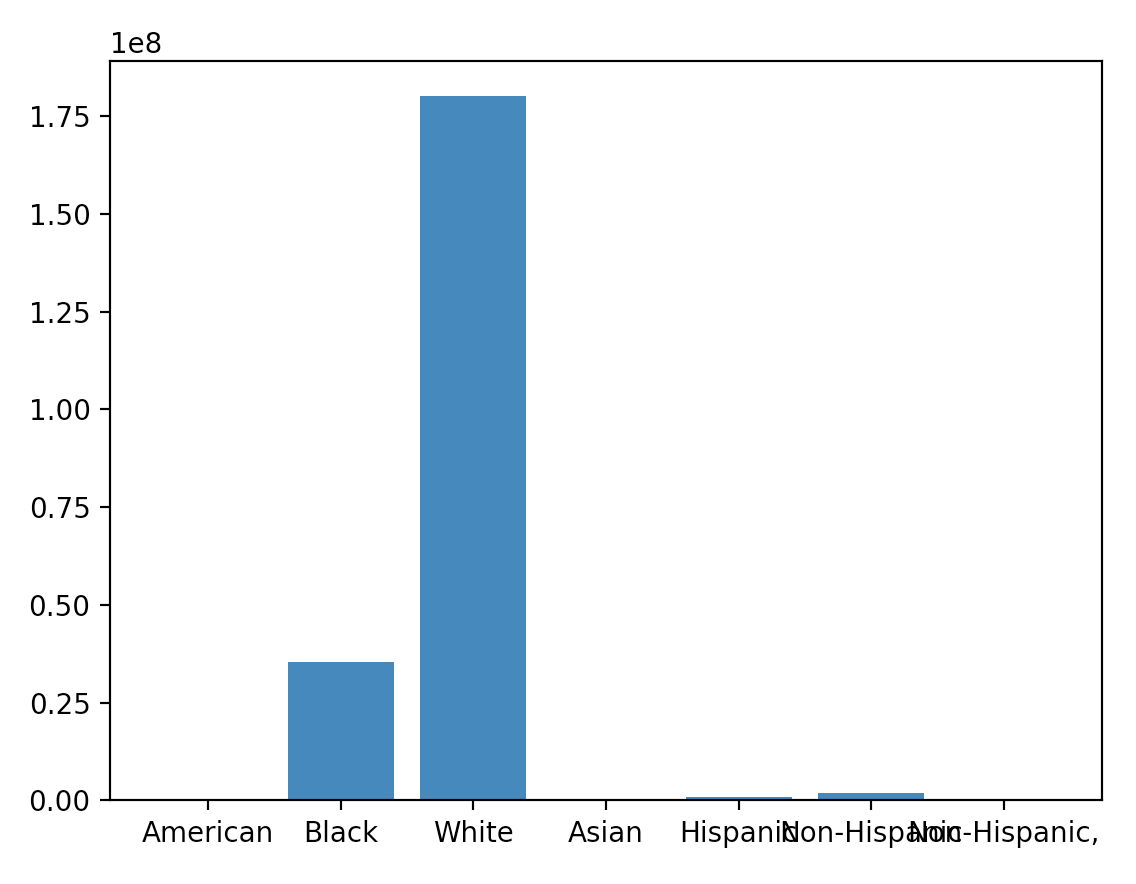
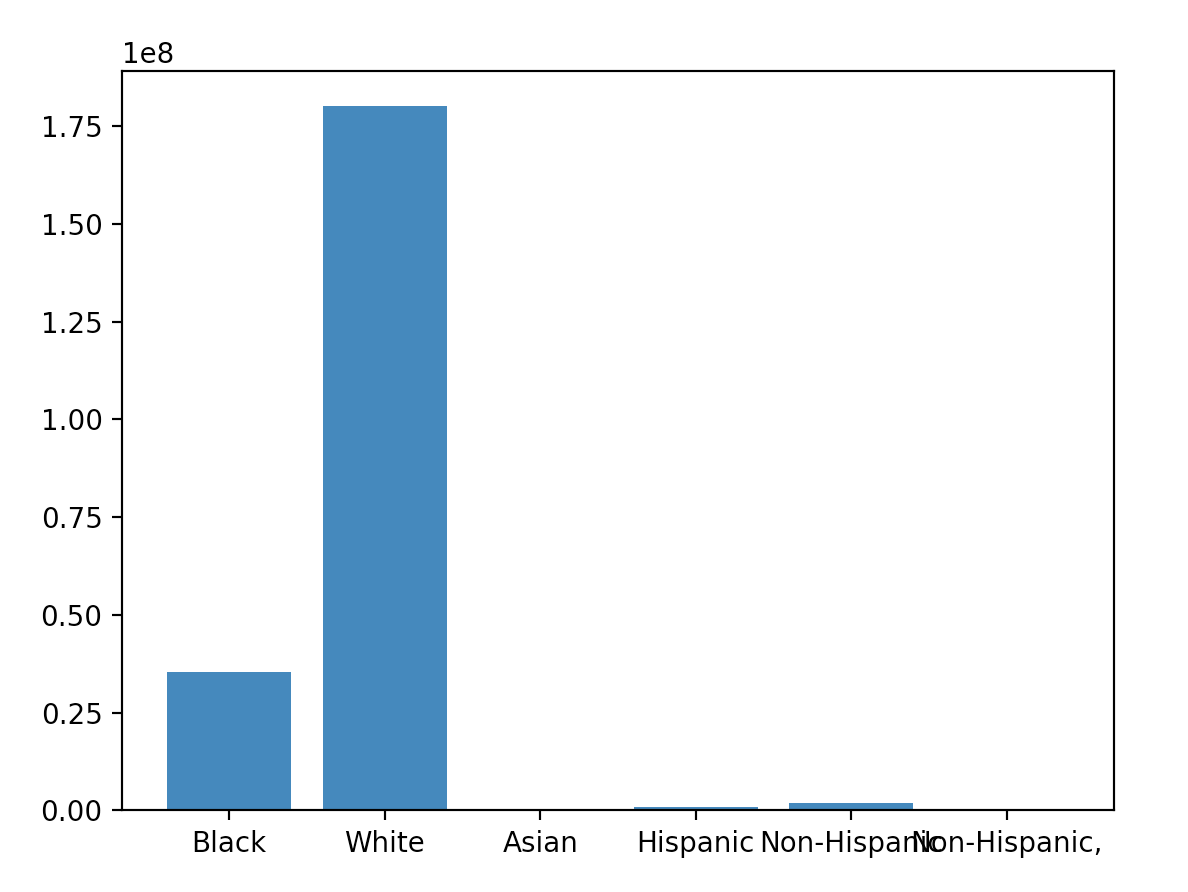
Fix misleading

Changed region(s): [[0.0308, 0.0305, 0.9551, 0.9774]]

diff --git a/plot.py b/plot.py
@@ -14,7 +14,7 @@ with open('raw.csv', mode='r') as csv_file:
         print(f'\tIn {row["Year"]} there are {row["Live Births"]} {row["Race"]} were born.')
         race = row["Race"].split(" ")[0]
         births = int(row["Live Births"])
-        if race == 'All':
+        if race == 'All' or race == 'American':
             continue
         if data_json.get(row["Race"]) is None:
             data_json[race] = births
